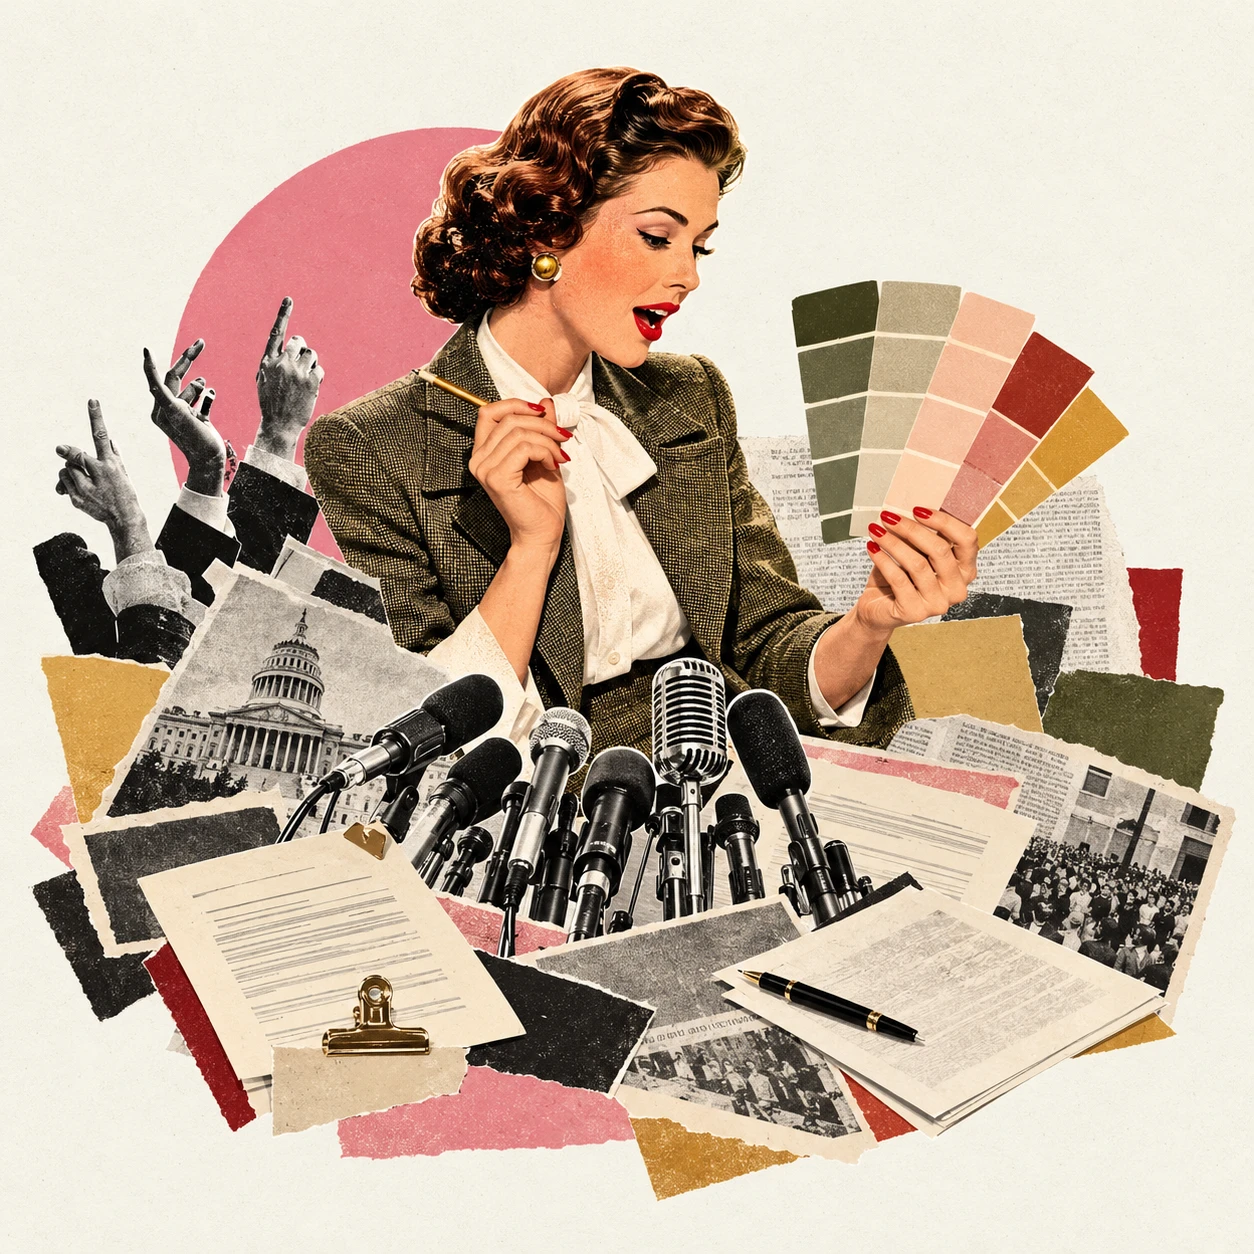
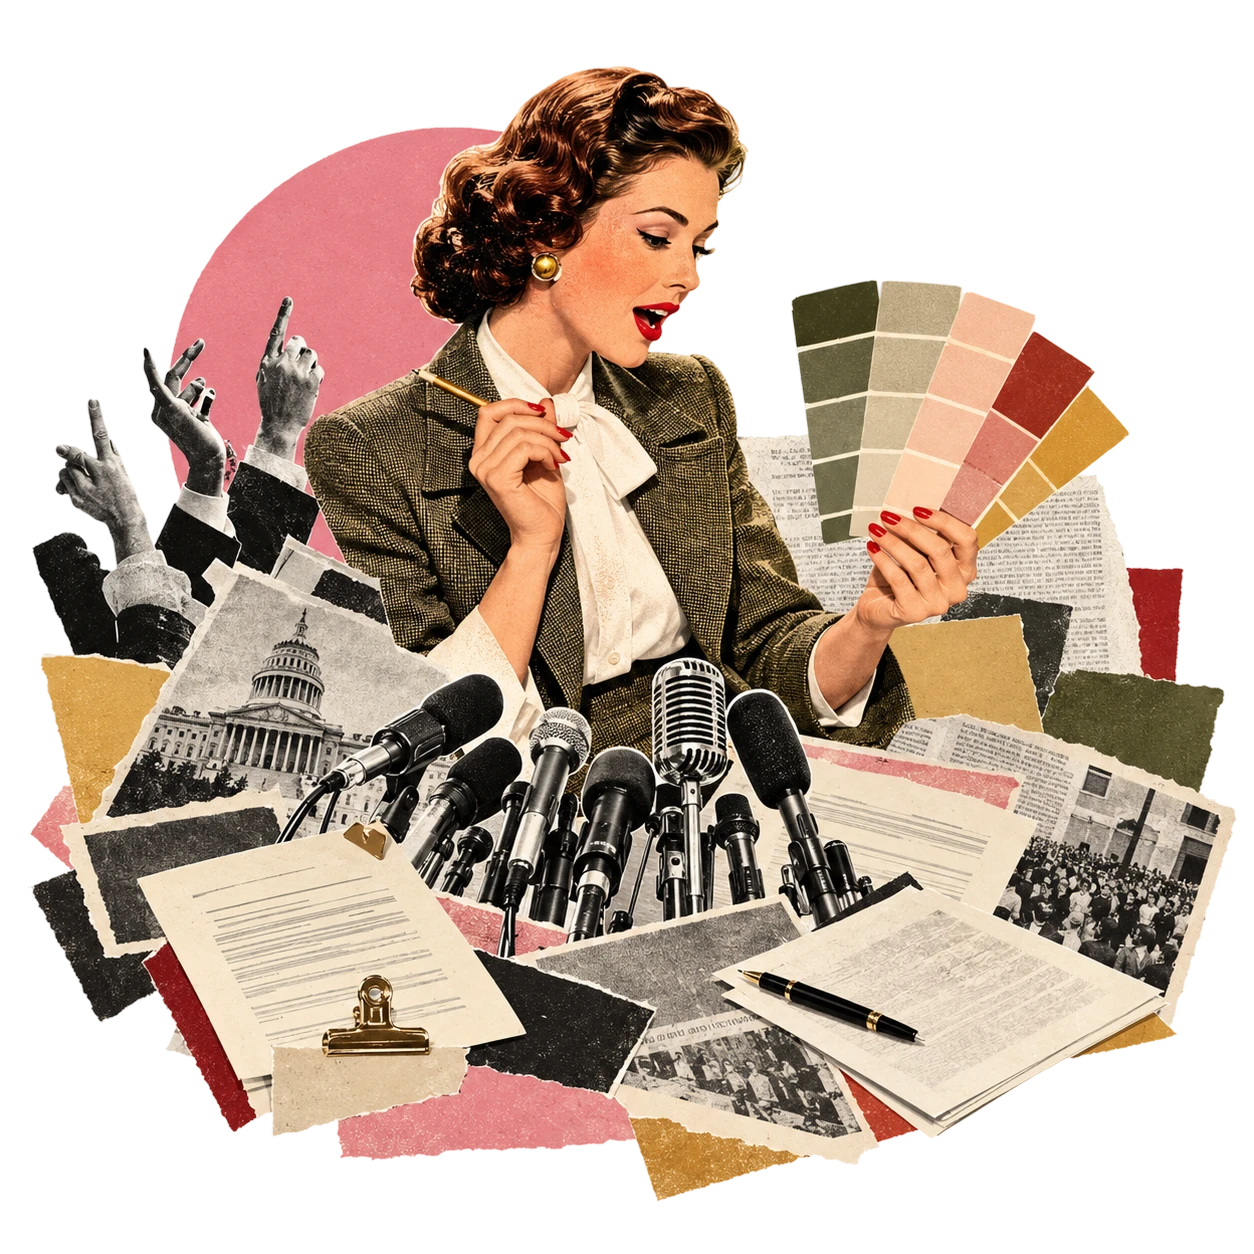
Landing: palette colours, one-line lockup, transparent collage
- Set CIVIC STRATEGIES on one line beneath LUNA, matched to its width.
- LUNA in Almond Cream, CIVIC STRATEGIES and tagline in Powder Blue.
- Deep Crimson password border and Enter button with cream text.
- Swap in the transparent collage and drop the edge-feather mask.

Changed region(s): [[0.0, 0.0, 1.0, 1.0]]

diff --git a/src/styles.css b/src/styles.css
@@ -109,7 +109,9 @@ input:focus-visible {
 /* ── Landing ─────────────────────────────────────────────── */
 .landing {
   --landing-bg: #3e1921; /* Night Bordeaux */
-  --landing-ink: #f5f0e8; /* cream */
+  --landing-ink: #eee1d1; /* Almond Cream */
+  --landing-accent: #9ab7d5; /* Powder Blue */
+  --landing-crimson: #741734; /* Deep Crimson */
   --curtain: cubic-bezier(0.22, 0.61, 0.36, 1);
   min-height: 100vh;
   min-height: 100dvh;
@@ -158,16 +160,7 @@ input:focus-visible {
   width: 100%;
   max-width: min(720px, 86vh);
   height: auto;
-  /* The collage's paper is a hair off the page cream; feather the outer
-     edge so it melts into the background instead of showing a square. */
-  -webkit-mask-image:
-    linear-gradient(to right, transparent, #000 6%, #000 94%, transparent),
-    linear-gradient(to bottom, transparent, #000 6%, #000 94%, transparent);
-  -webkit-mask-composite: source-in;
-  mask-image:
-    linear-gradient(to right, transparent, #000 6%, #000 94%, transparent),
-    linear-gradient(to bottom, transparent, #000 6%, #000 94%, transparent);
-  mask-composite: intersect;
+  /* Transparent cut-out: it sits straight on the background, no box. */
   animation: landing-breathe 6s ease-in-out infinite;
   will-change: transform;
 }
@@ -214,14 +207,17 @@ input:focus-visible {
   font-family: 'ShunsineFont', var(--display);
   font-size: 1.5em;
   line-height: 1;
+  color: var(--landing-ink);
 }
 
+/* Sized so CIVIC STRATEGIES stays on one line, about as wide as LUNA. */
 .landing-line--cotoris {
   font-family: 'CotorisFont', var(--ui);
   font-weight: 700;
-  font-size: 0.5em;
-  line-height: 1.25;
-  letter-spacing: 0.08em;
+  font-size: 0.41em;
+  line-height: 1.5;
+  letter-spacing: 0.12em;
+  color: var(--landing-accent);
 }
 
 .type-ghost {
@@ -262,7 +258,7 @@ input:focus-visible {
   font-style: italic;
   font-weight: 300;
   font-size: clamp(20px, 2vw, 27px);
-  color: var(--landing-ink);
+  color: var(--landing-accent);
   letter-spacing: -0.005em;
 }
 
@@ -293,20 +289,8 @@ input:focus-visible {
 .landing-form {
   display: flex;
   flex-direction: column;
-  gap: 0;
+  gap: 10px;
   width: min(440px, 100%);
-  padding: 6px;
-  background: rgba(245, 240, 232, 0.06);
-  border: 1px solid rgba(245, 240, 232, 0.22);
-  border-radius: 20px;
-  transition:
-    border-color 0.3s,
-    background-color 0.3s;
-}
-
-.landing-form:focus-within {
-  border-color: var(--landing-ink);
-  background: rgba(245, 240, 232, 0.1);
 }
 
 .landing-form input {
@@ -315,8 +299,13 @@ input:focus-visible {
   font-size: 16px;
   color: var(--landing-ink);
   background: transparent;
-  border: 0;
+  border: 1px solid var(--landing-crimson);
+  border-radius: 14px;
   padding: 13px 16px;
+}
+
+.landing-form input:focus {
+  box-shadow: 0 0 0 1px var(--landing-crimson);
 }
 
 .landing-form input.is-shaking {
@@ -335,17 +324,16 @@ input:focus-visible {
 }
 
 .landing-form .landing-enter {
-  margin-top: 6px;
   width: 100%;
-  padding: 12px 20px;
+  padding: 13px 20px;
   border-radius: 14px;
-  background: var(--landing-ink);
-  border-color: var(--landing-ink);
-  color: var(--landing-bg);
+  background: var(--landing-crimson);
+  border-color: var(--landing-crimson);
+  color: var(--landing-ink);
 }
 
 .landing-form input::placeholder {
-  color: rgba(245, 240, 232, 0.5);
+  color: rgba(238, 225, 209, 0.5);
 }
 
 .landing-form input:focus {

diff --git a/src/components/Landing.jsx b/src/components/Landing.jsx
@@ -2,12 +2,14 @@ import { useEffect, useState } from 'react'
 import { HUB_PASSWORD } from '../hooks/useHubAccess'
 
 // Each word types in its brand face: Shunsine for the name, Cotoris for the rest.
+// `line` groups words, so CIVIC STRATEGIES sits on one line beneath LUNA.
 const WORDS = [
-  { text: 'LUNA', font: 'shunsine' },
-  { text: 'CIVIC', font: 'cotoris' },
-  { text: 'STRATEGIES', font: 'cotoris' },
+  { text: 'LUNA', font: 'shunsine', line: 0 },
+  { text: 'CIVIC', font: 'cotoris', line: 1 },
+  { text: 'STRATEGIES', font: 'cotoris', line: 1 },
 ]
 const LENGTHS = WORDS.map((w) => w.text.length)
+const LINES = [0, 1].map((line) => WORDS.map((w, i) => ({ ...w, i })).filter((w) => w.line === line))
 
 // Unhurried timing: a soft start, an even typing pace, a breath between words.
 const START_DELAY = 700
@@ -112,12 +114,17 @@ export function Landing({ onUnlock }) {
 
       <div className="landing-copy-col">
         <h1 className="landing-title" aria-label="Luna Civic Strategies">
-          {WORDS.map(({ text, font }, i) => (
-            <span key={text} className={`landing-line landing-line--${font}`} aria-hidden="true">
-              <span>{text.slice(0, counts[i])}</span>
-              {cursorAt === i && <span className="type-cursor" />}
-              {/* The untyped remainder holds the line's width so nothing shifts. */}
-              <span className="type-ghost">{text.slice(counts[i])}</span>
+          {LINES.map((words) => (
+            <span key={words[0].text} className={`landing-line landing-line--${words[0].font}`} aria-hidden="true">
+              {words.map(({ text, i }, n) => (
+                <span key={text}>
+                  {n > 0 && ' '}
+                  <span>{text.slice(0, counts[i])}</span>
+                  {cursorAt === i && <span className="type-cursor" />}
+                  {/* The untyped remainder holds the line's width so nothing shifts. */}
+                  <span className="type-ghost">{text.slice(counts[i])}</span>
+                </span>
+              ))}
             </span>
           ))}
         </h1>
